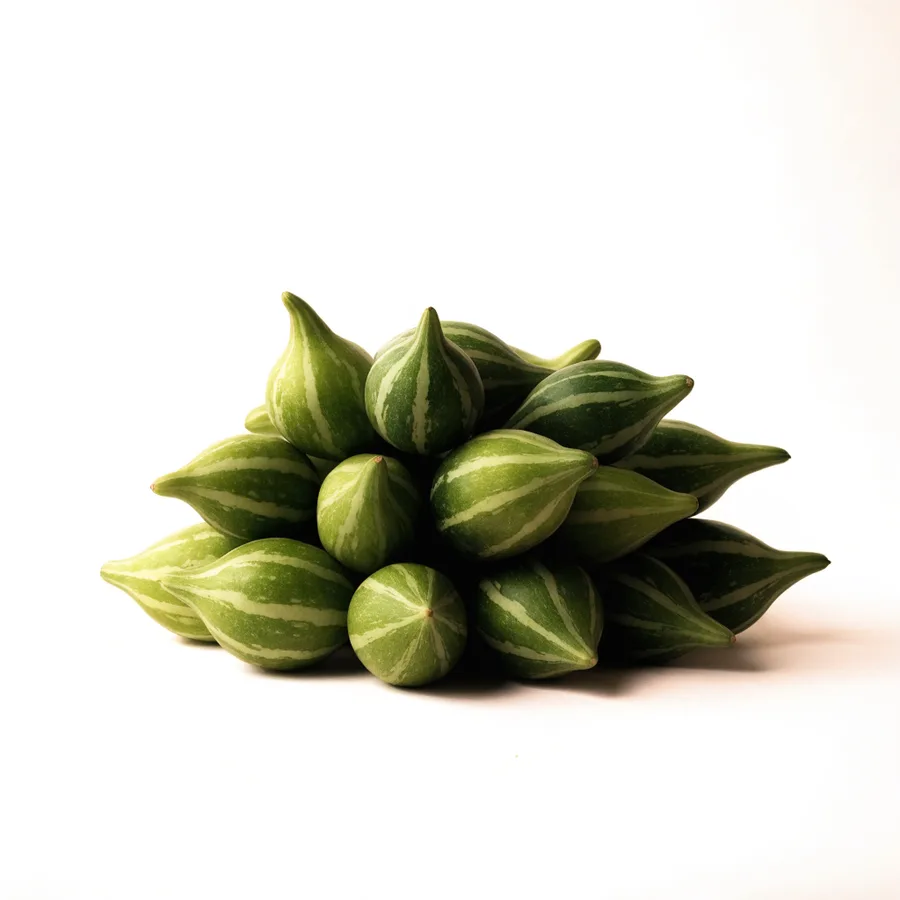
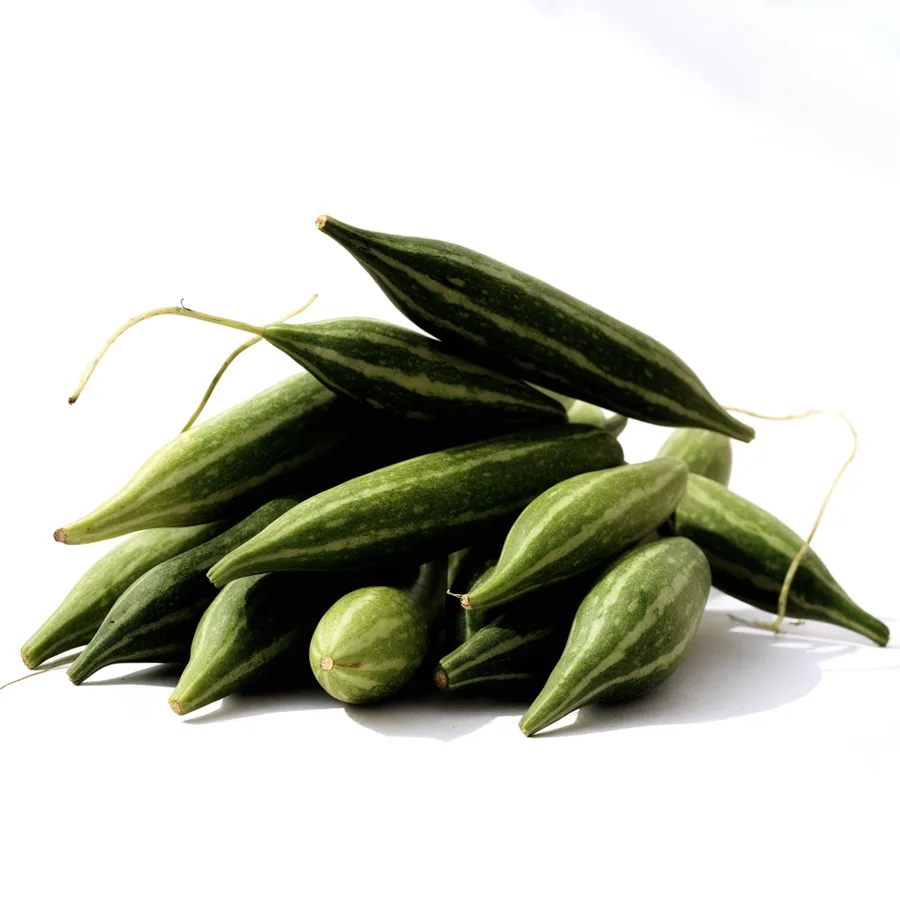
photograph the hero van and align product cards
Replaces the drawn van with a photograph, and reshoots the pointed gourd
which read as synthetic. The tagline now absorbs the card's spare height
so a one-line description no longer lifts the button out of line with
the rest of the row.

diff --git a/components/product/ProductCard.tsx b/components/product/ProductCard.tsx
@@ -129,7 +129,9 @@ export function ProductCard({
             <div className="text-[11px] text-vv-mute">{p.unit}</div>
           </div>
         </div>
-        <p className="text-xs text-vv-mute">{p.origin} · {p.tagline}</p>
+        {/* flex-1 lets the tagline absorb the spare height, so the button
+            lands on the same line across every card in a row. */}
+        <p className="flex-1 text-xs text-vv-mute">{p.origin} · {p.tagline}</p>
         <button
           onClick={() => {
             add(p.id);

diff --git a/lib/products/presentation.ts b/lib/products/presentation.ts
@@ -3,8 +3,8 @@ import type { ProductRow } from "@/lib/products/queries";
 const CATALOG_IMAGE_BASE = "/product-images/veggievan-catalog";
 
 export const HOME_HERO_IMAGE = {
-  src: "/home-images/veggievan-hero.svg",
-  alt: "A green VeggieVan delivery van loaded with crates of vegetables at first light",
+  src: "/home-images/veggievan-hero.webp",
+  alt: "A green delivery van parked on a quiet street at sunrise, rear doors open on crates of fresh vegetables",
 };
 
 export const HERO_PRODUCT_IMAGES = [
